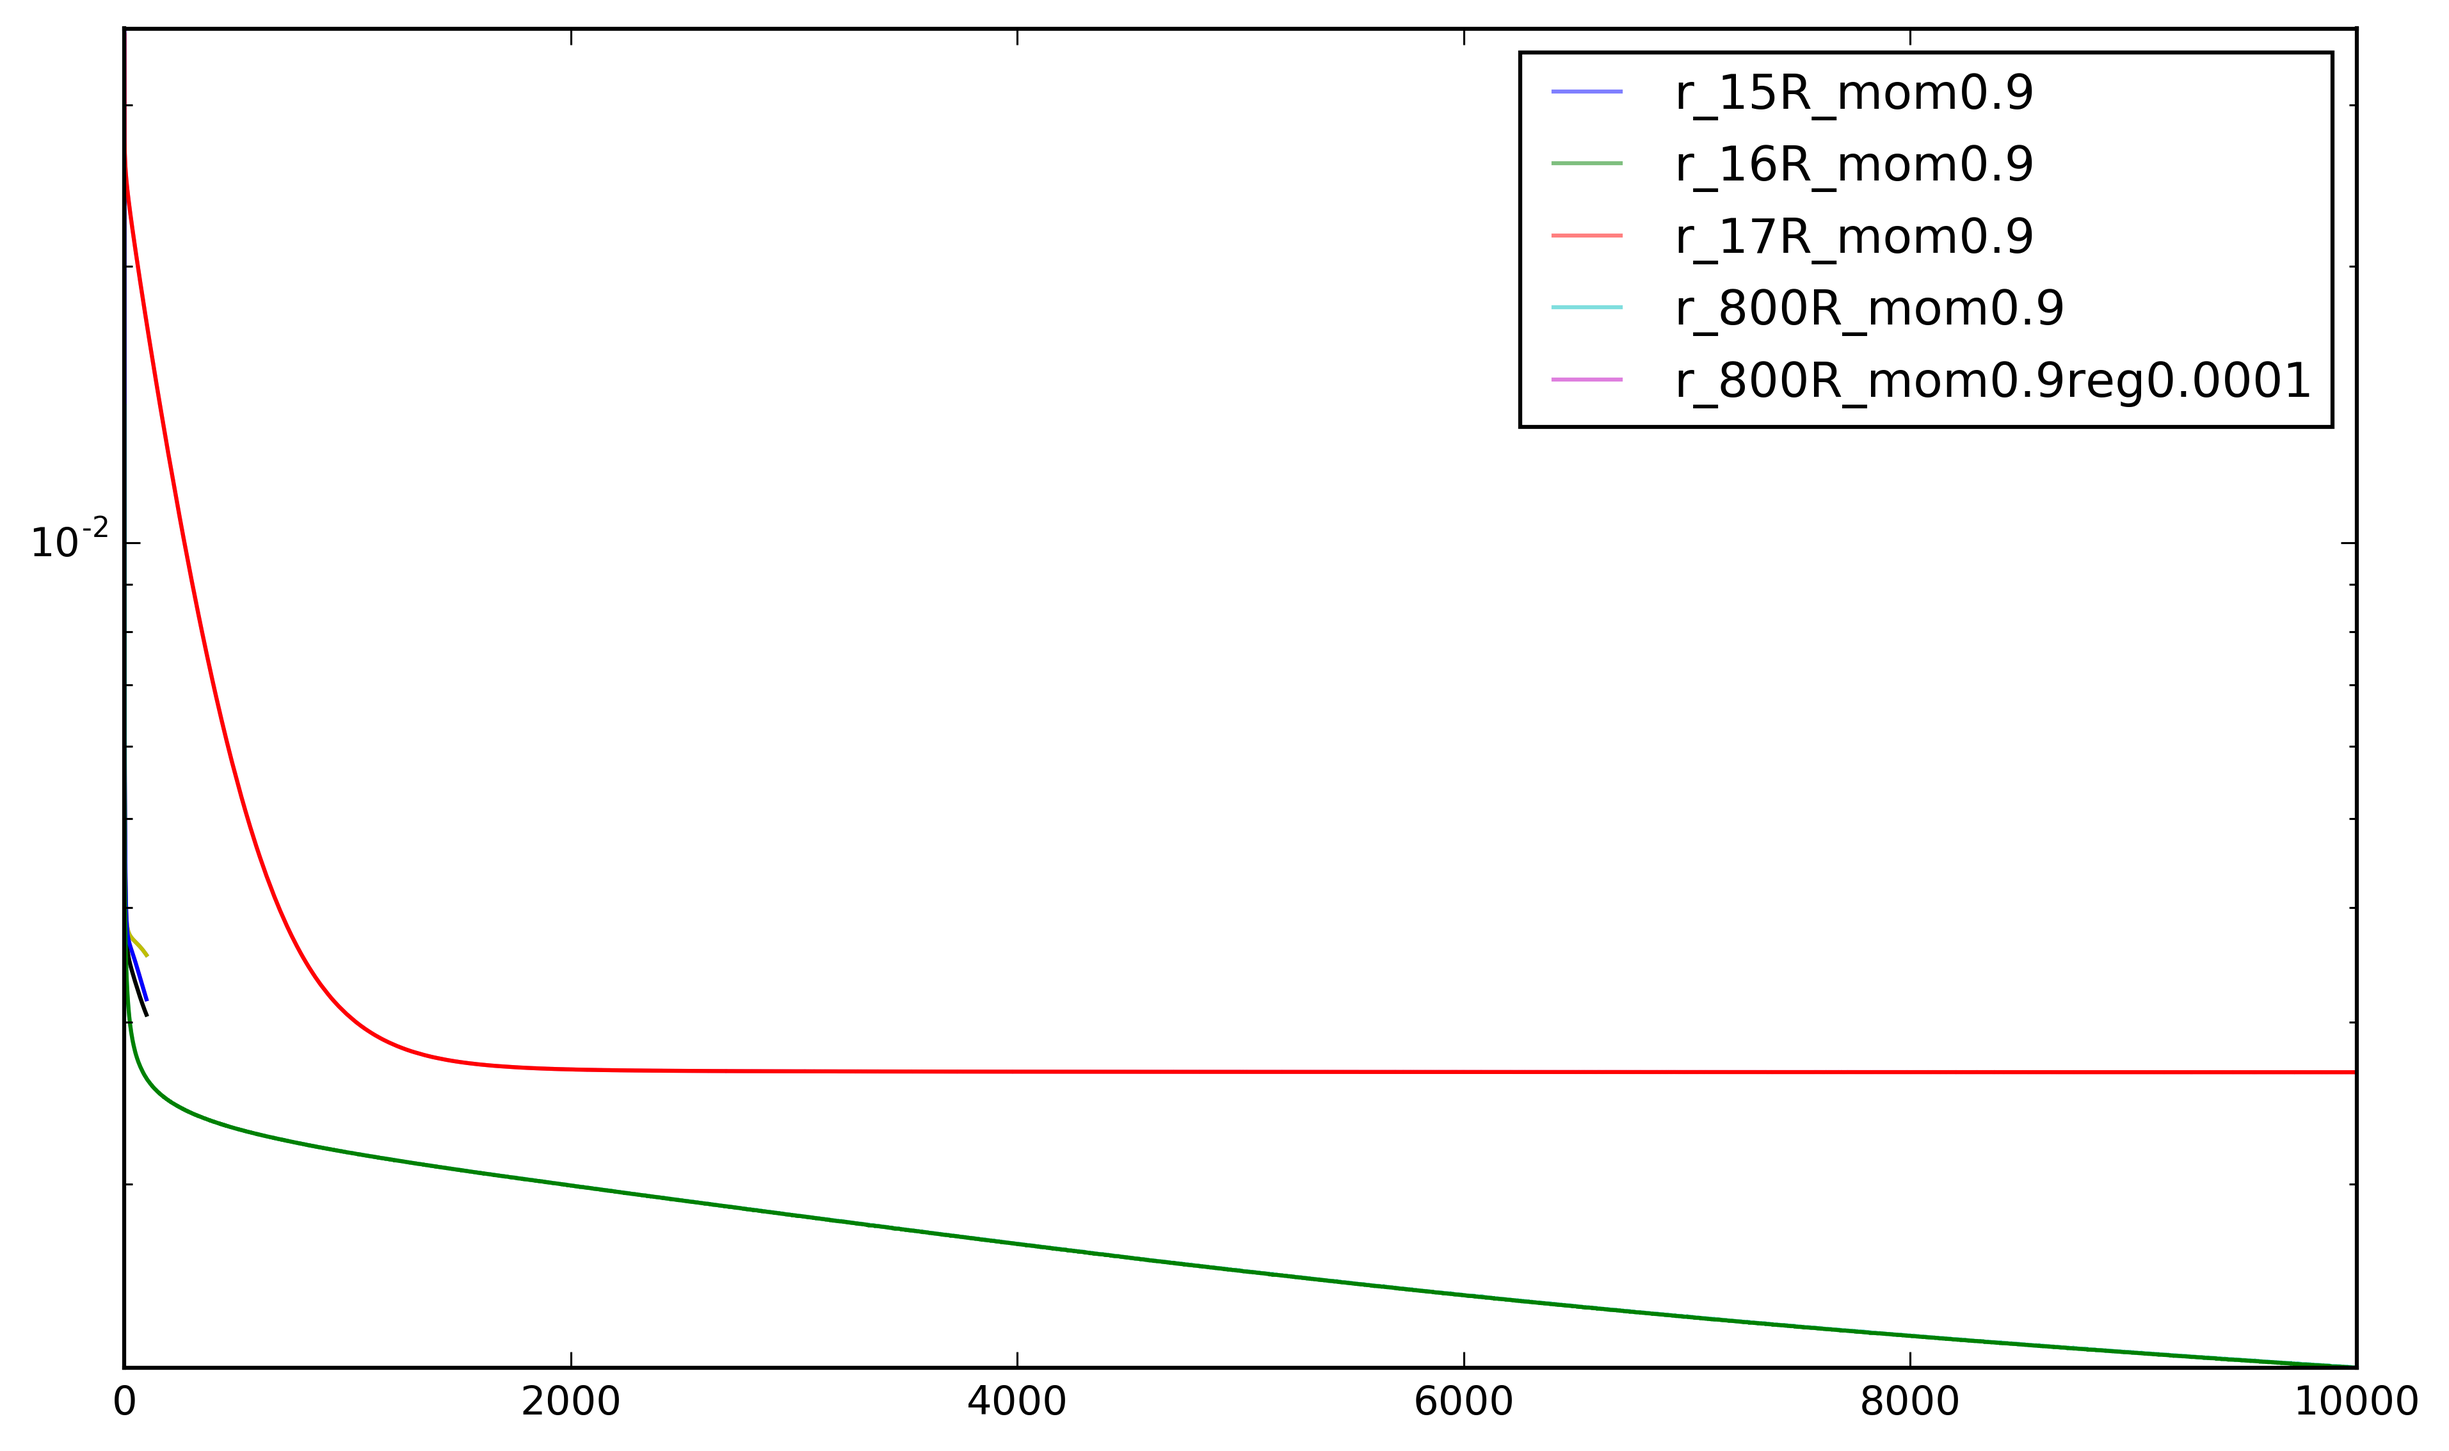
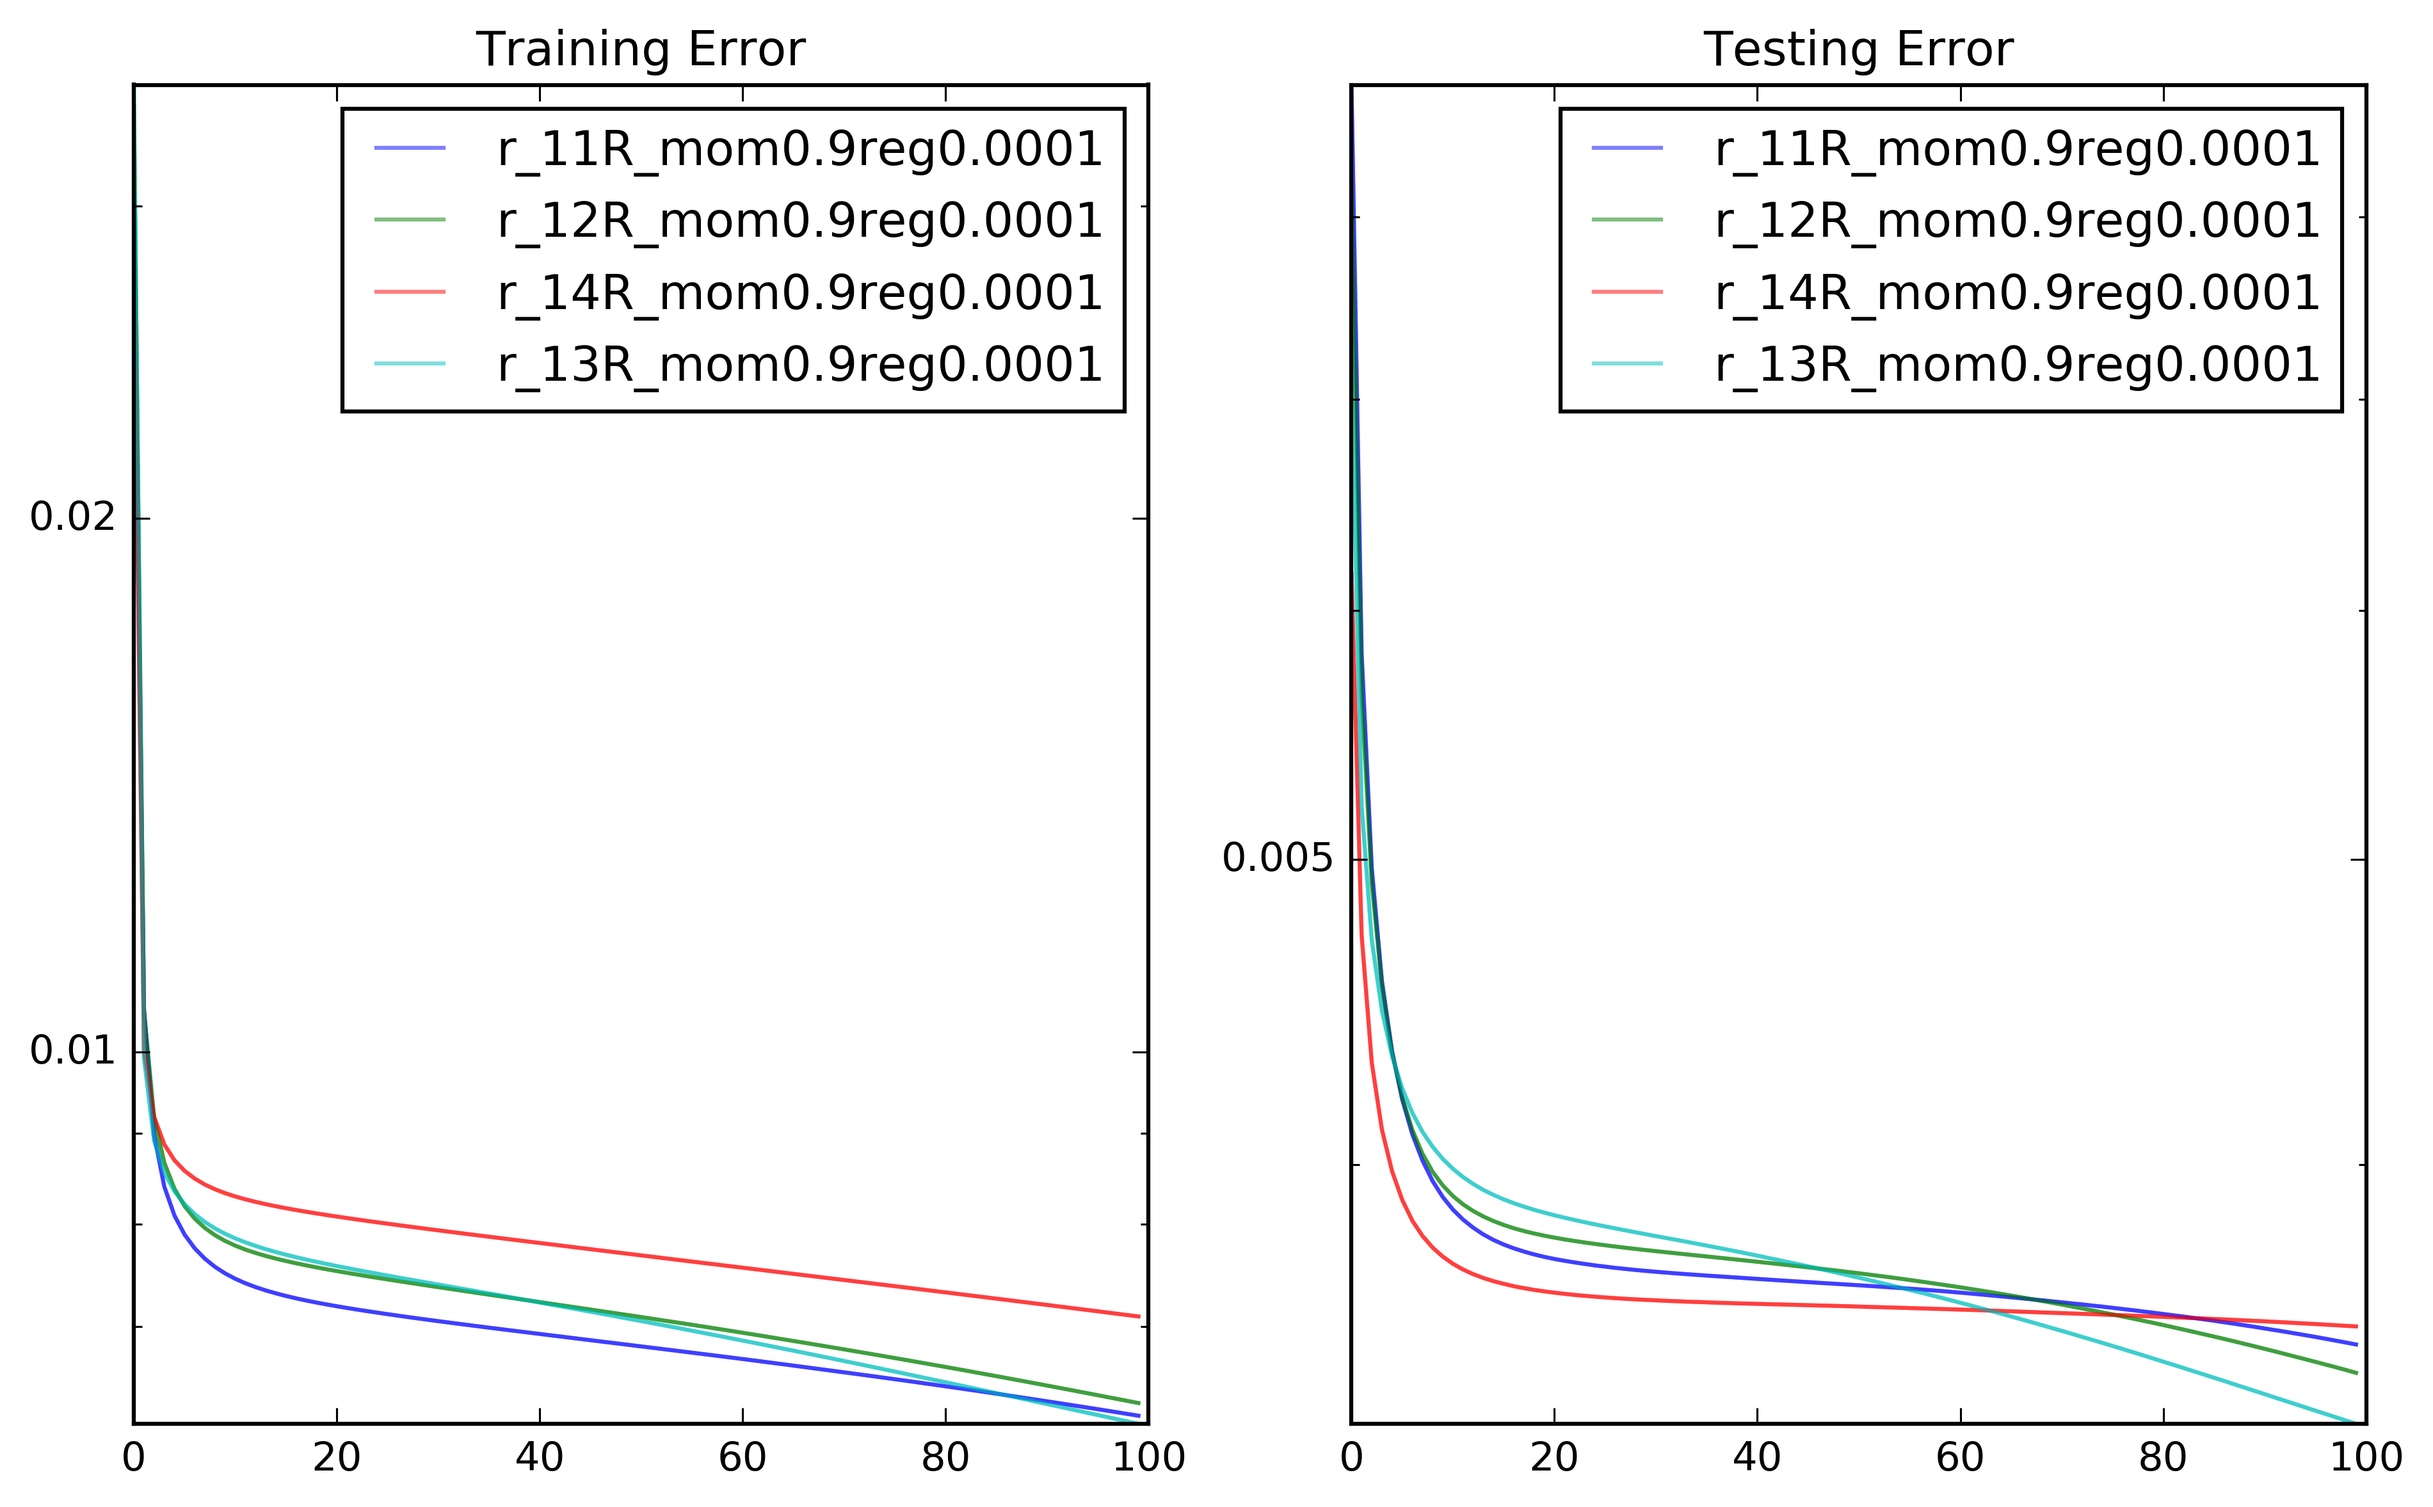
Updated the NN to run on test data and to plot test errors over time

diff --git a/src/nntrain.py b/src/nntrain.py
@@ -23,13 +23,13 @@ def build_nn(method,actv_fnc,hid_neur,batch_size,learning_rule,n_iter=None, n_st
         mlp = sknn.mlp.Regressor(layers,n_iter=n_iter,batch_size=batch_size,learning_rule=learning_rule,
                                  learning_rate=learning_rate,learning_momentum=learning_momentum,
                                  regularize = regularize, weight_decay = weight_decay, n_stable=n_stable,
-                                 callback={'on_epoch_finish': store_stats})
+                                 valid_size=valid_size, callback={'on_epoch_finish': store_stats})
     if method == 'classify':
         layers.append(sknn.mlp.Layer("Softmax"))
         mlp = sknn.mlp.Classifier(layers,n_iter=n_iter,batch_size=batch_size,learning_rule=learning_rule,
                                  learning_rate=learning_rate,learning_momentum=learning_momentum,
                                  regularize = regularize, weight_decay = weight_decay, n_stable=n_stable,
-                                 callback={'on_epoch_finish': store_stats})
+                                 valid_size=valid_size, callback={'on_epoch_finish': store_stats})
     #Write nn string
     layerstr='_'.join([str(h)+f[0] for h,f in zip(hid_neur,actv_fnc)])
     mlp_str = method[0] + "_" +  layerstr + "_" + learning_rule[0:3] + "{}".format(str(learning_momentum) if learning_rule=='momentum'
@@ -73,22 +73,36 @@ def train_nn(mlp,mlp_str,x1,cv1,x2,cv2,y2=None):
     end = time.time()
     print("Training Score: {:.4f}, Test Score: {:.4f} for Model {:s} ({:.1f} seconds)".format(
                                               train_score, test_score, mlp_str, end-start))
-    errors = np.asarray(error)
+    errors = np.asarray(error) # This is an N_iter x 4 array...see score_stats
     # Return the fitted models and the scores
     return mlp, errors
 
 
 # ---  EVALUATING NEURAL NETS  --- #
 
-def plot_model_error_over_time(errors, best_errors, mlp_str, fig_dir, txt):
+def plot_model_error_over_time(errors, mlp_str, fig_dir, txt):
     x = np.arange(errors.shape[0])
+    ytix = [.5e-3,1e-3,2e-3,5e-3,10e-3,20e-3]
     # Plot error rate vs. iteration number
     fig=plt.figure()
-    plt.semilogy(x, errors, alpha=0.5)
-    plt.ylim((np.nanmin(errors), np.nanmax(errors)))
-    plt.semilogy(x, best_errors)
-    plt.ylim((np.nanmin(best_errors), np.nanmax(best_errors)))
+    # Plot training errors
+    ax1=plt.subplot(1, 2 ,1)
+    plt.semilogy(x, np.squeeze(errors[:,0,:]), alpha=0.5)
     plt.legend(mlp_str)
+    plt.gca().set_color_cycle(None) #reset color cycle
+    plt.semilogy(x, np.squeeze(errors[:,1,:]), alpha=0.5)
+    plt.yticks(ytix,ytix)
+    plt.ylim((np.nanmin(errors[:,0,:]), np.nanmax(errors[:,0,:])))
+    plt.title('Training Error')
+    # Plot test errors
+    plt.subplot(1, 2 ,2)
+    plt.semilogy(x, np.squeeze(errors[:,2,:]), alpha=0.5)
+    plt.legend(mlp_str)
+    plt.gca().set_color_cycle(None) #reset color cycle
+    plt.semilogy(x, np.squeeze(errors[:,3,:]), alpha=0.5)
+    plt.yticks(ytix,ytix)
+    plt.ylim((np.nanmin(errors[:,2,:]), np.nanmax(errors[:,2,:])))
+    plt.title('Testing Error')
     plt.show()
     fig.savefig(fig_dir + txt + '_score_history.png',bbox_inches='tight',dpi=450)
             
